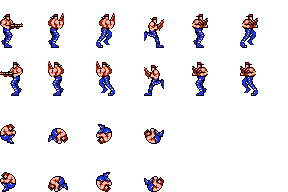
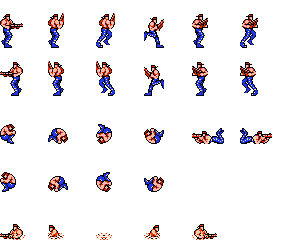
Animaciones en proceso

diff --git a/FakeContra/Player.cpp b/FakeContra/Player.cpp
@@ -14,7 +14,7 @@
 
 enum PlayerAnims
 {
-	STAND_LEFT, STAND_RIGHT, MOVE_LEFT, MOVE_RIGHT, JUMP_LEFT, JUMP_RIGHT, FALL_LEFT, FALL_RIGHT
+	STAND_LEFT, STAND_RIGHT, MOVE_LEFT, MOVE_RIGHT, JUMP_LEFT, JUMP_RIGHT, BEND_LEFT, BEND_RIGHT
 };
 
 
@@ -22,22 +22,22 @@ void Player::init(const glm::ivec2 &tileMapPos, ShaderProgram &shaderProgram)
 {
 	bJumping = false;
 	spritesheet.loadFromFile("images/player.png", TEXTURE_PIXEL_FORMAT_RGBA);
-	sprite = Sprite::createSprite(glm::ivec2(48, 48), glm::vec2(0.1666, 0.25), &spritesheet, &shaderProgram);
-	sprite->setNumberAnimations(6);
+	sprite = Sprite::createSprite(glm::ivec2(96, 96), glm::vec2(0.1666, 0.20), &spritesheet, &shaderProgram);
+	sprite->setNumberAnimations(8);
 	
 		sprite->setAnimationSpeed(STAND_LEFT, 8);
-		sprite->addKeyframe(STAND_LEFT, glm::vec2(0.f, 0.25f));
+		sprite->addKeyframe(STAND_LEFT, glm::vec2(0.f, 0.20f));
 		
 		sprite->setAnimationSpeed(STAND_RIGHT, 8);
 		sprite->addKeyframe(STAND_RIGHT, glm::vec2(0.0f, 0.f));
 		
 		sprite->setAnimationSpeed(MOVE_LEFT, 8);
-		sprite->addKeyframe(MOVE_LEFT, glm::vec2(0.1666f, 0.25f));
-		sprite->addKeyframe(MOVE_LEFT, glm::vec2(0.3333f, 0.25f));
-		sprite->addKeyframe(MOVE_LEFT, glm::vec2(0.5000f, 0.25f));
-		sprite->addKeyframe(MOVE_LEFT, glm::vec2(0.6666f, 0.25f));
-		sprite->addKeyframe(MOVE_LEFT, glm::vec2(0.8333f, 0.25f));
-		sprite->addKeyframe(MOVE_LEFT, glm::vec2(0.5000f, 0.25f));
+		sprite->addKeyframe(MOVE_LEFT, glm::vec2(0.1666f, 0.20f));
+		sprite->addKeyframe(MOVE_LEFT, glm::vec2(0.3333f, 0.20f));
+		sprite->addKeyframe(MOVE_LEFT, glm::vec2(0.5000f, 0.20f));
+		sprite->addKeyframe(MOVE_LEFT, glm::vec2(0.6666f, 0.20f));
+		sprite->addKeyframe(MOVE_LEFT, glm::vec2(0.8333f, 0.20f));
+		sprite->addKeyframe(MOVE_LEFT, glm::vec2(0.5000f, 0.20f));
 		
 		sprite->setAnimationSpeed(MOVE_RIGHT, 8);
 		sprite->addKeyframe(MOVE_RIGHT, glm::vec2(0.1666f, 0.0f));
@@ -48,16 +48,22 @@ void Player::init(const glm::ivec2 &tileMapPos, ShaderProgram &shaderProgram)
 		sprite->addKeyframe(MOVE_RIGHT, glm::vec2(0.5000f, 0.0f));
 
 		sprite->setAnimationSpeed(JUMP_LEFT, 8);
-		sprite->addKeyframe(JUMP_LEFT, glm::vec2(0.0000f, 0.75f));
-		sprite->addKeyframe(JUMP_LEFT, glm::vec2(0.1666f, 0.75f));
-		sprite->addKeyframe(JUMP_LEFT, glm::vec2(0.3333f, 0.75f));
-		sprite->addKeyframe(JUMP_LEFT, glm::vec2(0.5000f, 0.75f));
+		sprite->addKeyframe(JUMP_LEFT, glm::vec2(0.0000f, 0.60f));
+		sprite->addKeyframe(JUMP_LEFT, glm::vec2(0.1666f, 0.60f));
+		sprite->addKeyframe(JUMP_LEFT, glm::vec2(0.3333f, 0.60f));
+		sprite->addKeyframe(JUMP_LEFT, glm::vec2(0.5000f, 0.60f));
 
 		sprite->setAnimationSpeed(JUMP_RIGHT, 8);
-		sprite->addKeyframe(JUMP_RIGHT, glm::vec2(0.0000f, 0.5f));
-		sprite->addKeyframe(JUMP_RIGHT, glm::vec2(0.1666f, 0.5f));
-		sprite->addKeyframe(JUMP_RIGHT, glm::vec2(0.3333f, 0.5f));
-		sprite->addKeyframe(JUMP_RIGHT, glm::vec2(0.5000f, 0.5f));
+		sprite->addKeyframe(JUMP_RIGHT, glm::vec2(0.0000f, 0.4f));
+		sprite->addKeyframe(JUMP_RIGHT, glm::vec2(0.1666f, 0.4f));
+		sprite->addKeyframe(JUMP_RIGHT, glm::vec2(0.3333f, 0.4f));
+		sprite->addKeyframe(JUMP_RIGHT, glm::vec2(0.5000f, 0.4f));
+
+		sprite->setAnimationSpeed(BEND_LEFT, 8);
+		sprite->addKeyframe(BEND_LEFT, glm::vec2(0.6666f, 0.4f));
+
+		sprite->setAnimationSpeed(BEND_RIGHT, 8);
+		sprite->addKeyframe(BEND_RIGHT, glm::vec2(0.8333f, 0.4f));
 
 		
 	sprite->changeAnimation(0);
@@ -71,48 +77,54 @@ void Player::update(int deltaTime)
 	sprite->update(deltaTime);
 	if(Game::instance().getSpecialKey(GLUT_KEY_LEFT))
 	{
-		if (bJumping) {
-
-			if (sprite->animation() == MOVE_LEFT || sprite->animation() == STAND_LEFT)
-				sprite->changeAnimation(JUMP_LEFT);
-		}
-		else {
-			if (sprite->animation() != MOVE_LEFT)
-				sprite->changeAnimation(MOVE_LEFT);
-		}
+		if (!bJumping && sprite->animation() != MOVE_LEFT) sprite->changeAnimation(MOVE_LEFT);
+		else if (bJumping && sprite->animation() != JUMP_LEFT) sprite->changeAnimation(JUMP_LEFT);
 		posPlayer.x -= WALK_STEP;
 		if(map->collisionMoveLeft(posPlayer, glm::ivec2(32, 32)))
 		{
 			posPlayer.x += WALK_STEP;
-			sprite->changeAnimation(STAND_LEFT);
+			if(!bJumping) sprite->changeAnimation(STAND_LEFT);
 		}
 	}
 	else if(Game::instance().getSpecialKey(GLUT_KEY_RIGHT))
 	{
-		if(sprite->animation() != MOVE_RIGHT)
-			sprite->changeAnimation(MOVE_RIGHT);
+		if(!bJumping && sprite->animation() != MOVE_RIGHT) sprite->changeAnimation(MOVE_RIGHT);
+		if(bJumping && sprite->animation() != JUMP_RIGHT) sprite->changeAnimation(JUMP_RIGHT);
 		posPlayer.x += WALK_STEP;
 		if(map->collisionMoveRight(posPlayer, glm::ivec2(32, 32)))
 		{
 			posPlayer.x -= WALK_STEP;
-			sprite->changeAnimation(STAND_RIGHT);
+			if (!bJumping) sprite->changeAnimation(STAND_RIGHT);
 		}
 	}
+	else if (Game::instance().getSpecialKey(GLUT_KEY_DOWN) && !bJumping)
+	{
+		if (sprite->animation() == MOVE_RIGHT || sprite->animation() == STAND_RIGHT) sprite->changeAnimation(BEND_RIGHT);
+		if (sprite->animation() == MOVE_LEFT || sprite->animation() == STAND_LEFT) sprite->changeAnimation(BEND_LEFT);
+	}
+	
 	else
 	{
-		if(sprite->animation() == MOVE_LEFT)
-			sprite->changeAnimation(STAND_LEFT);
-		else if(sprite->animation() == MOVE_RIGHT)
-			sprite->changeAnimation(STAND_RIGHT);
+		if (!bJumping) {
+			if (sprite->animation() == MOVE_LEFT || sprite->animation() == BEND_LEFT)
+				sprite->changeAnimation(STAND_LEFT);
+			else if (sprite->animation() == MOVE_RIGHT || sprite->animation() == BEND_RIGHT)
+				sprite->changeAnimation(STAND_RIGHT);
+		}
 	}
 	
 	if(bJumping)
 	{
+		if (sprite->animation() == MOVE_LEFT || sprite->animation() == STAND_LEFT) sprite->changeAnimation(JUMP_LEFT);
+		else if (sprite->animation() == MOVE_RIGHT || sprite->animation() == STAND_RIGHT) sprite->changeAnimation(JUMP_RIGHT);
+
 		jumpAngle += JUMP_ANGLE_STEP;
 		if(jumpAngle == 180)
 		{
 			bJumping = false;
 			posPlayer.y = startY;
+			if (sprite->animation() == JUMP_LEFT) sprite->changeAnimation(STAND_LEFT);
+			else if (sprite->animation() == JUMP_RIGHT) sprite->changeAnimation(STAND_RIGHT);
 		}
 		else
 		{
@@ -123,6 +135,9 @@ void Player::update(int deltaTime)
 	}
 	else
 	{
+		if (sprite->animation() == JUMP_LEFT) sprite->changeAnimation(STAND_LEFT);
+		else if (sprite->animation() == JUMP_RIGHT) sprite->changeAnimation(STAND_RIGHT);
+
 		posPlayer.y += FALL_STEP;
 		if(map->collisionMoveDown(posPlayer, glm::ivec2(32, 32), &posPlayer.y))
 		{

diff --git a/FakeContra/TileMap.cpp b/FakeContra/TileMap.cpp
@@ -193,6 +193,7 @@ bool TileMap::collisionMoveDown(const glm::ivec2 &pos, const glm::ivec2 &size, i
 	y = (pos.y + size.y - 1) / tileSize;
 	for(int x=x0; x<=x1; x++)
 	{
+		//if (!Game::instance().getSpecialKey(GLUT_KEY_DOWN)) {
 		if (!Game::instance().getSpecialKey(GLUT_KEY_DOWN) || !Game::instance().getKey((int('z')))) { 
 			if (map[y * mapSize.x + x] == 1 || map[y * mapSize.x + x] == 2 || map[y * mapSize.x + x] == 36 || map[y * mapSize.x + x] == 37 || (y == 13 && map[y * mapSize.x + x] != 5 && map[y * mapSize.x + x] != 6))
 			{

diff --git a/FakeContra/Sprite.cpp b/FakeContra/Sprite.cpp
@@ -50,7 +50,7 @@ void Sprite::update(int deltaTime)
 
 void Sprite::render() const
 {
-	glm::mat4 modelview = glm::translate(glm::mat4(1.0f), glm::vec3(position.x, position.y + 8.f, 0.f));
+	glm::mat4 modelview = glm::translate(glm::mat4(1.0f), glm::vec3(position.x, position.y -45.f, 0.f));
 	shaderProgram->setUniformMatrix4f("modelview", modelview);
 	shaderProgram->setUniform2f("texCoordDispl", texCoordDispl.x, texCoordDispl.y);
 	glEnable(GL_TEXTURE_2D);
